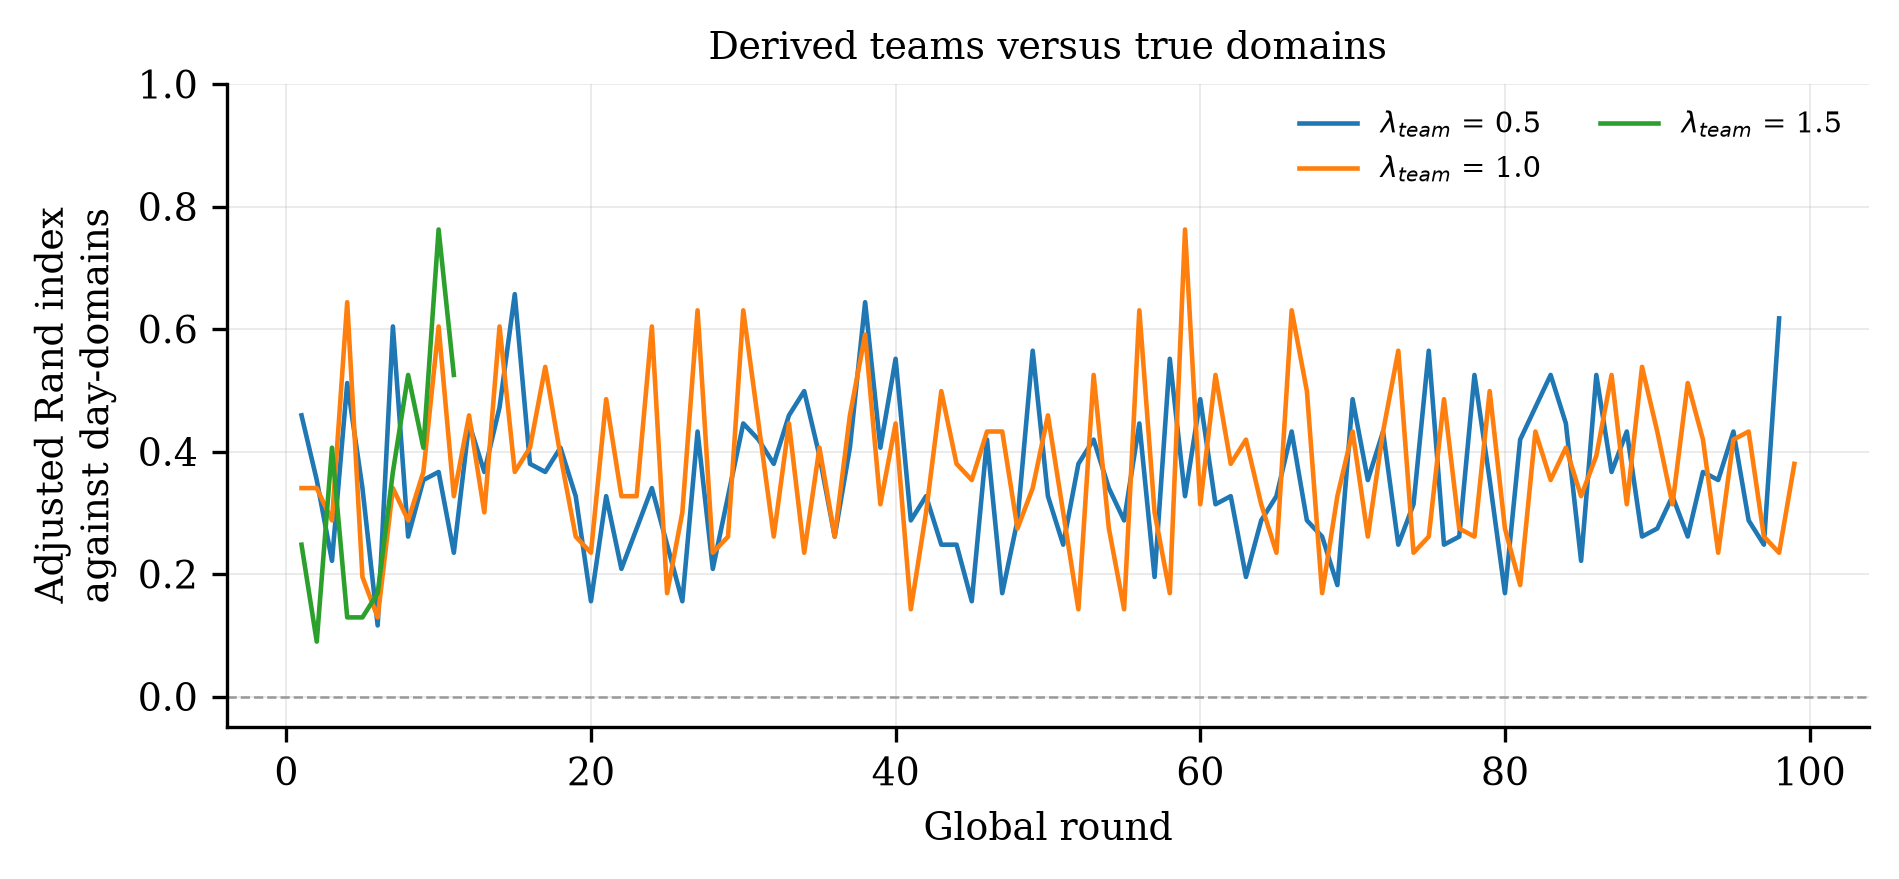
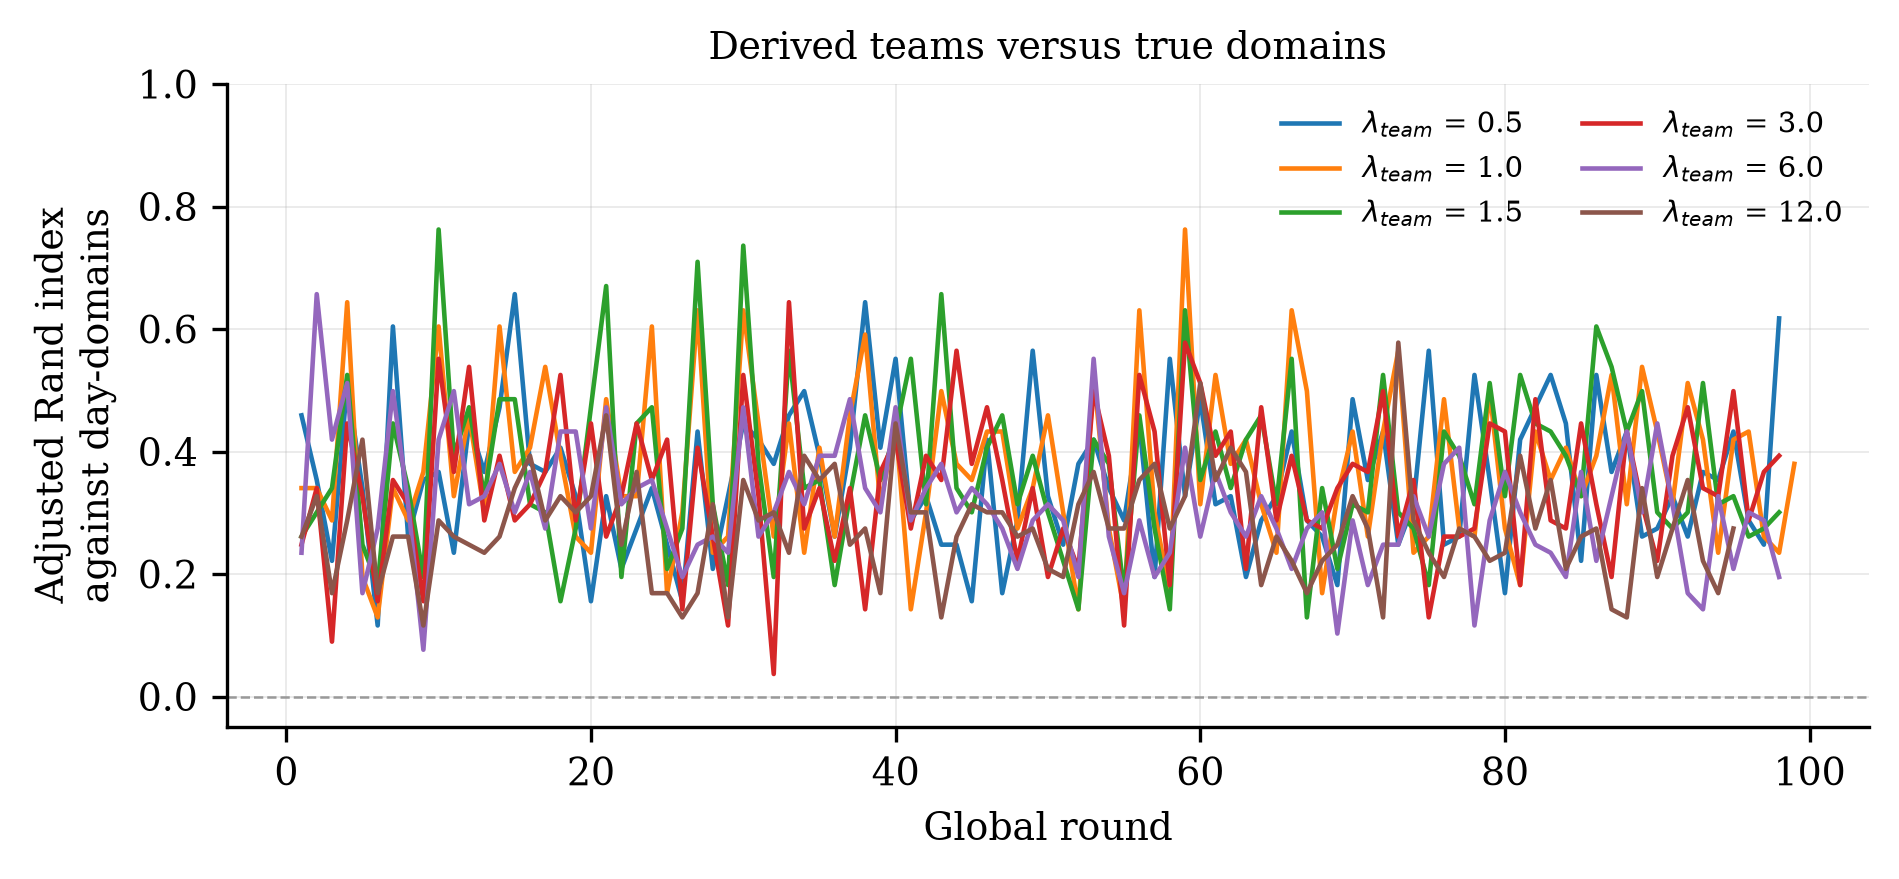
Record the completed lambda_team sweep
Monotone on both tiers and on false-positive rate across 0.5 to 12.0,
with no turnover. Personalised macro F1 rises from 0.4168 to 0.8440,
global from 0.1529 to 0.5341. The sweep ran out of range rather than
finding an optimum; the stability bound permits up to 31.8.

Records that all headline results use 1.5 and are therefore conservative,
that the earlier 0.4074 cross-test ceiling constrained a different
configuration, and that at the top of the range the method is closer to
per-team FedAvg than to the published design.

diff --git a/docs/results.md b/docs/results.md
@@ -351,6 +351,47 @@ Variance falls as depth rises, personalised standard deviation running 0.184,
 0.180, 0.112, 0.074 and global 0.819, 0.667, 0.414, 0.373. Deeper local training
 makes runs more reproducible as well as more accurate.
 
+## 8b. The lambda_team sweep
+
+CICIDS2017, T=100, K=10, L=20, group division 3, lambda 0.05, gamma 1.5, three
+seeds per point, exp 2600-2617. `lt/g` is the member-influence ratio
+lambda_team / gamma.
+
+| lambda_team | lt/g | PM macro F1 | sd | GM macro F1 | sd | PM acc | GM acc | GM FPR |
+|---|---|---|---|---|---|---|---|---|
+| 0.5 | 0.3 | 0.4168 | 0.0206 | 0.1529 | 0.0310 | 0.8817 | 0.8312 | 0.0887 |
+| 1.0 | 0.7 | 0.4383 | 0.0178 | 0.2169 | 0.0122 | 0.8860 | 0.8511 | 0.0816 |
+| 1.5 | 1.0 | 0.5202 | 0.0068 | 0.2480 | 0.0072 | 0.9108 | 0.8632 | 0.0788 |
+| 3.0 | 2.0 | 0.5818 | 0.0397 | 0.2603 | 0.0022 | 0.9203 | 0.8684 | 0.0757 |
+| 6.0 | 4.0 | 0.6480 | 0.0046 | 0.4046 | 0.0120 | 0.9340 | 0.8859 | 0.0642 |
+| **12.0** | 8.0 | **0.8440** | 0.0132 | **0.5341** | 0.0137 | 0.9576 | 0.9057 | 0.0475 |
+
+Monotone on both tiers across the whole range, and monotone on false-positive
+rate too, which falls from 0.0887 to 0.0475. The curve does not turn over. The
+stability bound at eta 0.03 and gamma 1.5 permits lambda_team below 31.8, so the
+sweep ran out of range rather than finding an optimum. Values of 18, 24 and 30
+are untested.
+
+Three consequences.
+
+**Every headline result in this project is conservative.** All of them use
+lambda_team = 1.5, chosen a priori with no evidence. At that point personalised
+macro F1 is 0.5202; at 12.0 it is 0.8440. The reported effect sizes understate
+what the parameter can do.
+
+**The 0.6 macro F1 target is reachable.** An earlier analysis concluded 0.6 was
+structurally unreachable, computing a cross-test ceiling of 0.4074. That
+conclusion was correct for its configuration, cross-test on at T=10 with L=500,
+and does not constrain this one.
+
+**There is a point where tuning becomes redesign.** At lambda_team = 12.0 the
+team model is weighted eight times more toward its members' average than toward
+the global model. That is closer to a per-team FedAvg with a weak global anchor
+than to the method the paper describes. The numbers are unambiguous, but a claim
+of correcting a coupled parameter is harder to sustain at the top of this range
+than at the bottom, and the write-up should choose its operating point
+deliberately rather than quoting the best cell.
+
 ## 9. Floors and ceilings
 
 | Quantity | Metric | Value |
